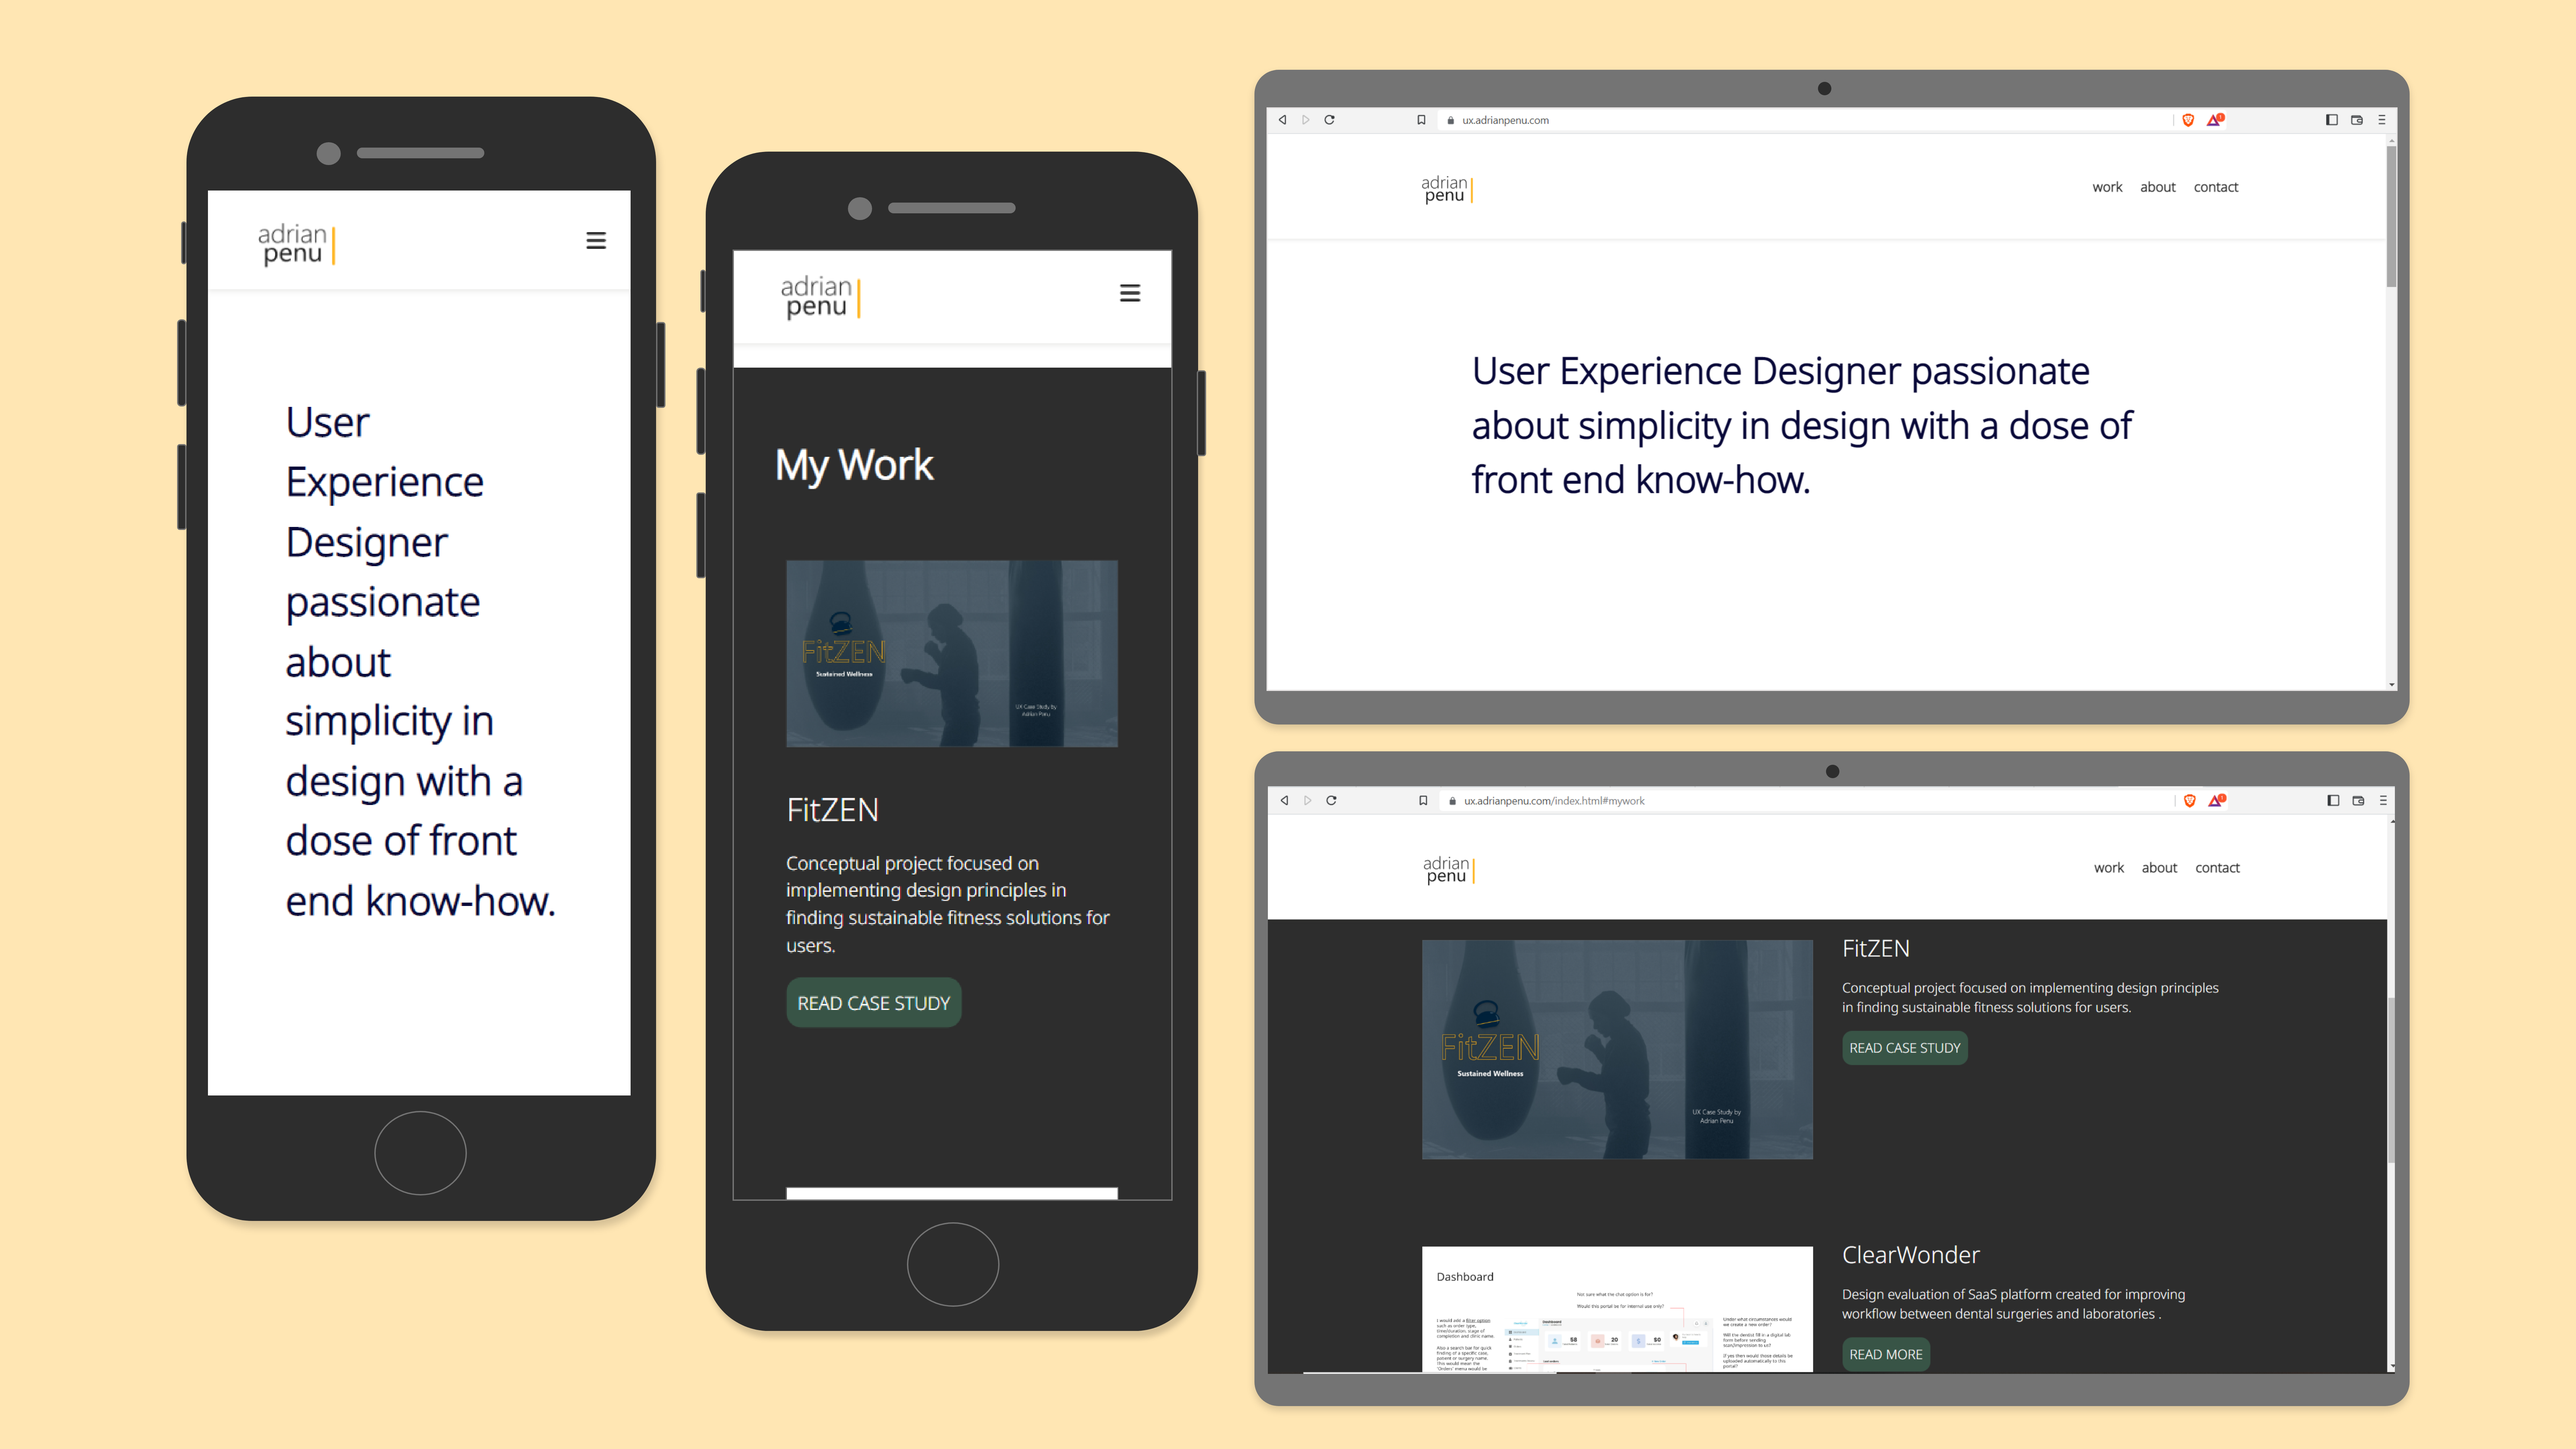
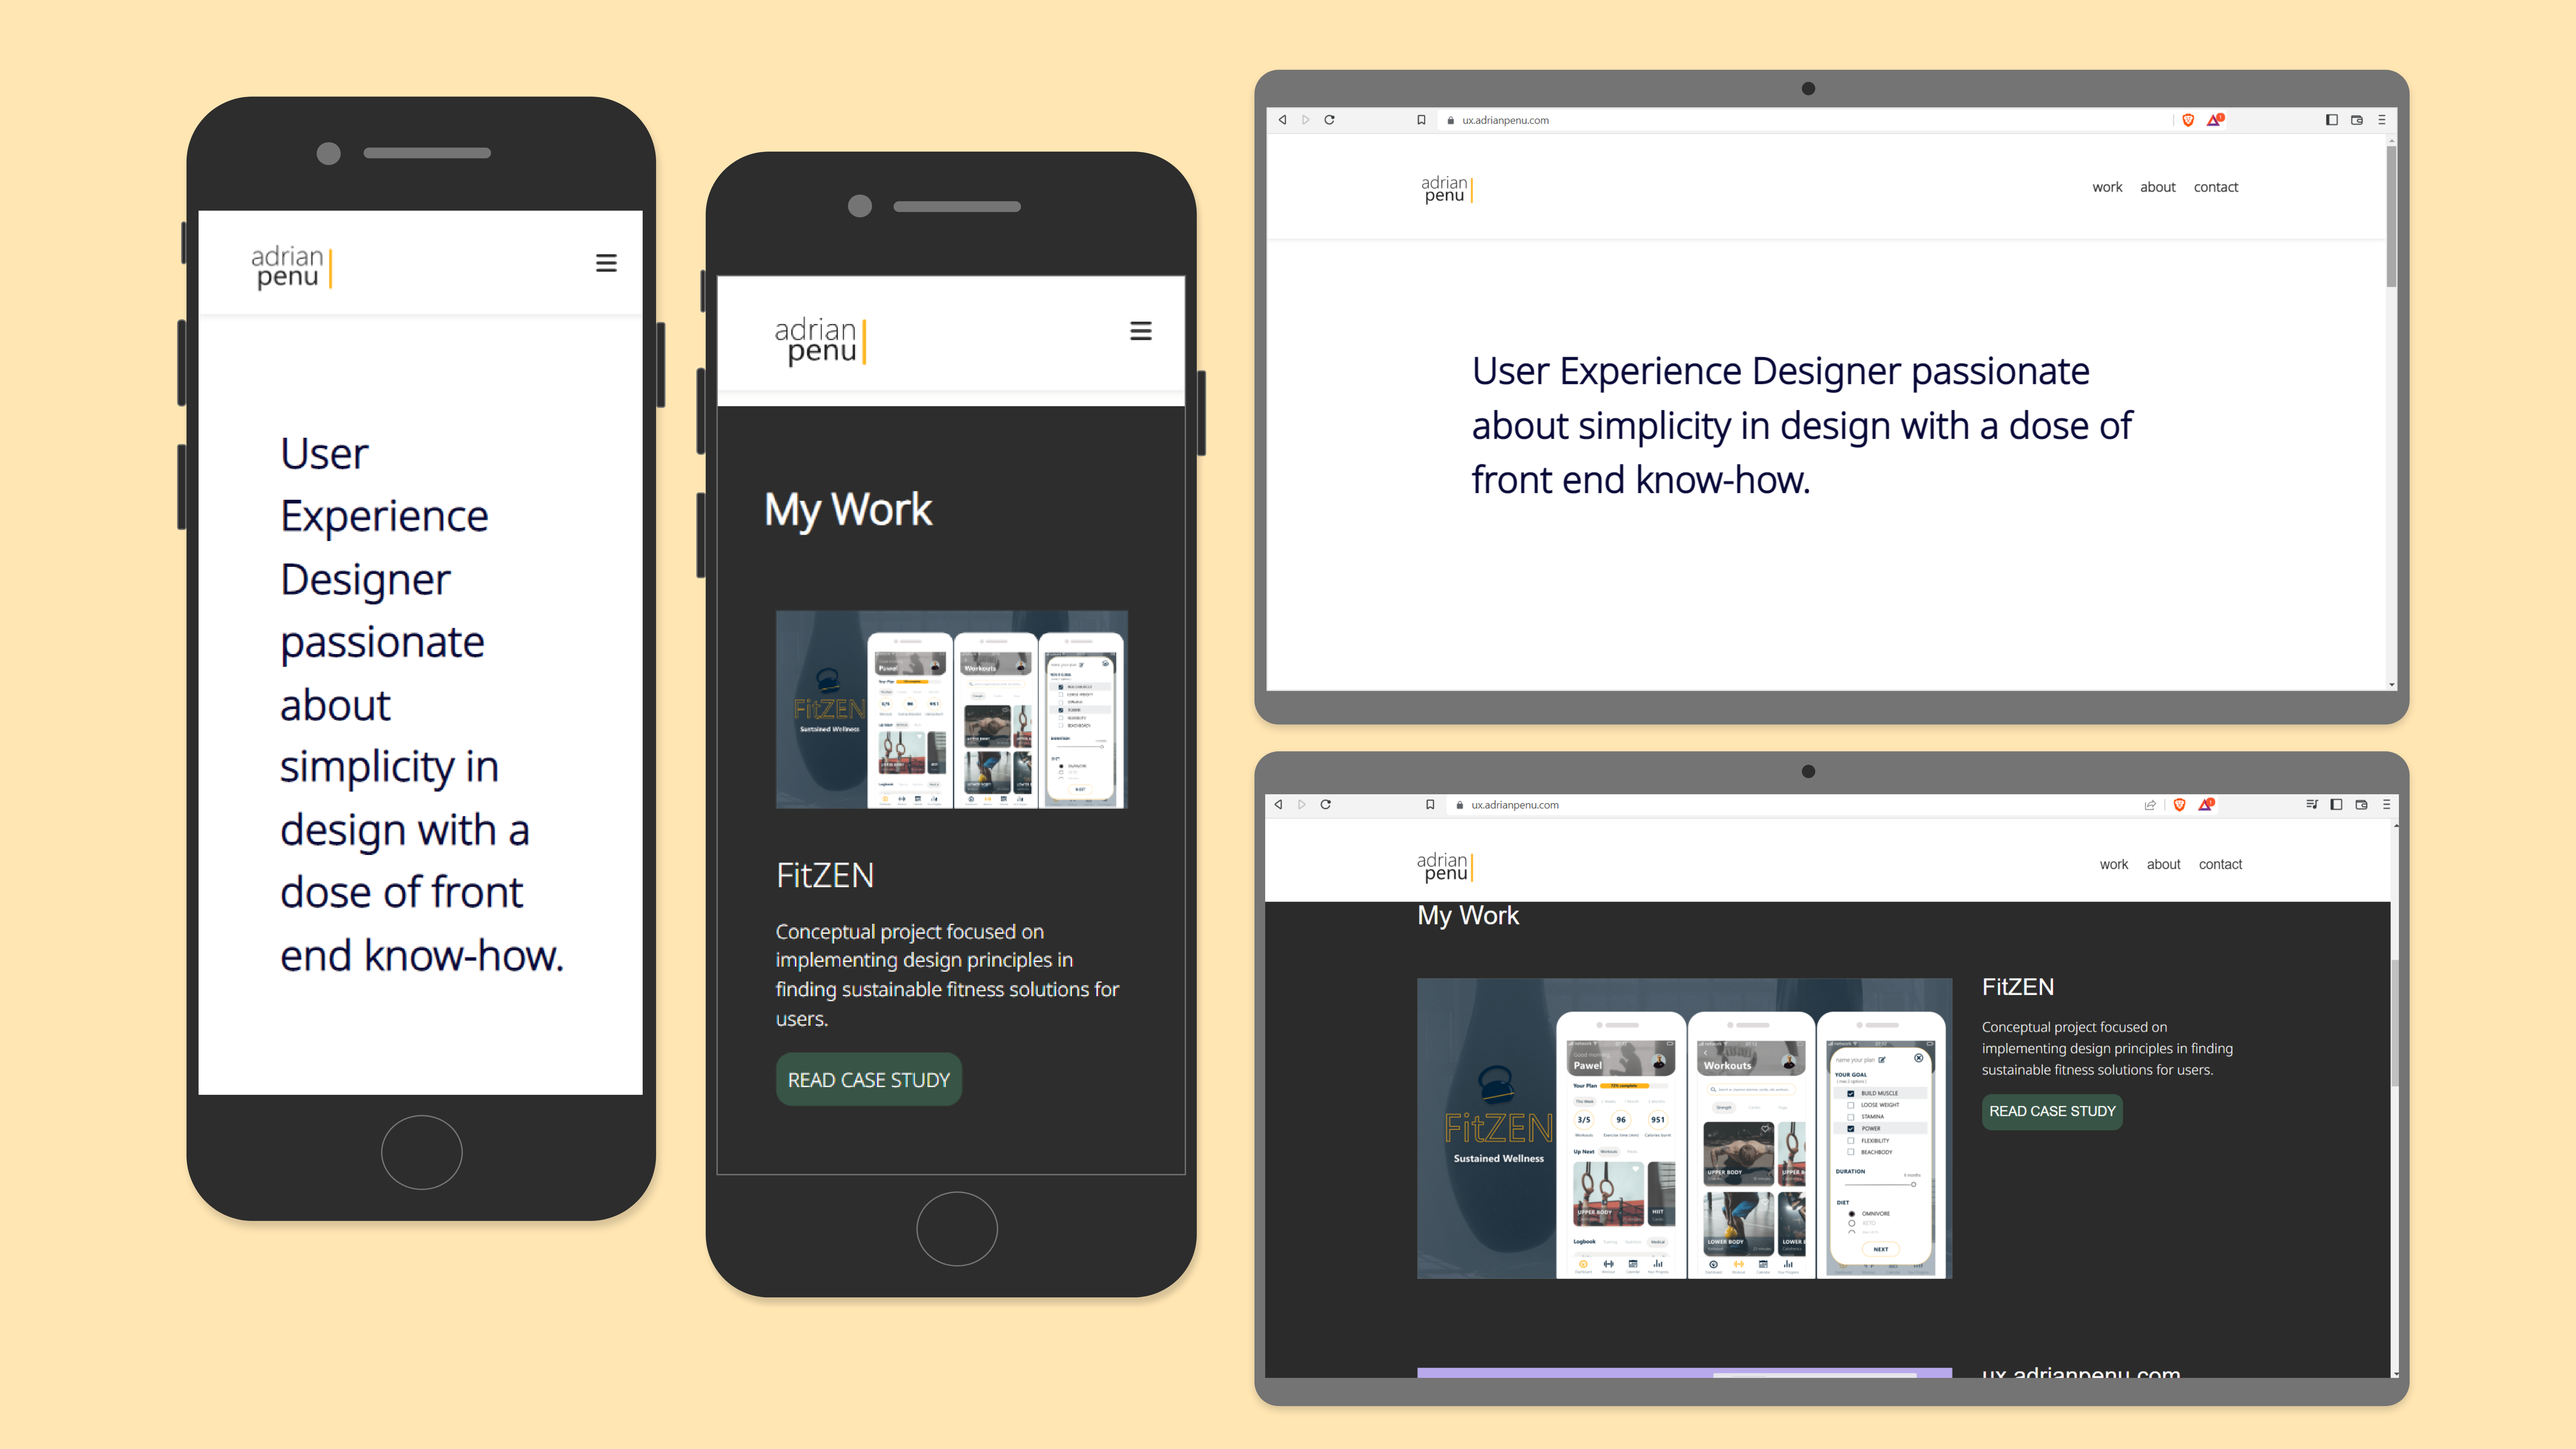
change general

diff --git a/css/style.css b/css/style.css
@@ -305,7 +305,7 @@ nav > ul > li > a {
 #hero p {
   font-size: 3em;
   font-weight: 500;
-  color: #2d2d2d;
+  color: #2b2b2b;
   margin: 0;
   display: inline-block;
 }
@@ -484,6 +484,14 @@ blockquote.pullquote::after {
 blockquote.pullquote::before,
 blockquote.pullquote::after {
   margin: 1.125rem auto;
+}
+
+#hero .flexbox-item:nth-child(2) {
+  display: none;
+}
+
+.more_about_me {
+  padding: 60px 60px 0 0;
 }
 
 @media only screen and (min-width: 641px) {
@@ -701,15 +709,18 @@ blockquote.pullquote::after {
 }
 
 @media only screen and (min-width: 1024px) {
-  #hero .container {
-    margin: 150px auto 90px;
-    padding: 0 120px 120px;
-  }
-
   .container {
     max-width: 1200px;
     margin-left: auto;
     margin-right: auto;
+  }
+
+  #hero {
+    padding: 150px 20px 100px 100px;
+  }
+
+  .grid-container-intro {
+    flex-grow: 1;
   }
 
   .flexbox-container {
@@ -802,6 +813,36 @@ blockquote.pullquote::after {
   }
 }
 
+@media only screen and (min-width: 1200px) {
+  .grid-container-intro {
+    grid-template-columns: 1fr 1fr;
+    display: grid;
+    grid-gap: 10px;
+    align-items: start;
+    background-color: #fff;
+    margin: 0;
+    padding: 50px 10px;
+  }
+
+  #hero .flexbox-item:nth-child(2) {
+    display: grid;
+  }
+
+  #hero p {
+    font-weight: 300;
+    font-size: 2.75em;
+    margin: 0;
+  }
+
+  #hero {
+    padding: 130px 160px 100px 165px;
+  }
+
+  #hero img {
+    margin-top: 15px;
+  }
+}
+
 @media only screen and (max-width: 640px) {
   .tools {
     margin-top: 30px;
@@ -826,7 +867,7 @@ blockquote.pullquote::after {
 
   #hero p {
     font-weight: 300;
-    font-size: 2.25em;
+    font-size: 2.1em;
     margin: 50px 40px;
   }
 
@@ -853,5 +894,9 @@ blockquote.pullquote::after {
 
   #contact p {
     padding: 0 30px;
+  }
+
+  .more_about_me {
+    padding: 0 0 0 40px;
   }
 }

diff --git a/fitzen.html b/fitzen.html
@@ -245,11 +245,11 @@
       <div class="grid-container">
         <div class="flexbox-item">
           <p>I’ve created personas with the purpose of making the research more relatable and building empathy with the user.
-            A persona doesn’t represent the ideal user but rather the average user whom the app is intended for.
+            They're not meant to represent the ideal user but rather the average user whom the app is intended for.
           </p><br />
           <p>The two personas created for this project highlight different target audiences and their pain points.
           </p><br />
-          <p>One is chosen due to wanting to take fitness to the next level whilst the second persona targets users who want to improve their quality of life but don’t know where to start.
+          <p>Pawel wants to take fitness to the next level whilst Fatima is looking to improve the quality of life but doesn’t know where to start.
           </p>
         </div>
         <div class="flexbox-item">
@@ -275,7 +275,7 @@
         <h3>IDEATION</h3>
         <h2>Finding patterns</h2>
         <div class="flexbox-item">
-          <p>I’ve created user flows with basic tasks such starting a workout. This helped me make sure the navigation remains simple and intuitive.</p>
+          <p>I’ve created Fatima's user flows as a basic task such as starting a workout. This helped me make sure the navigation remains simple and intuitive.</p>
         </div>
         <div class="flexbox-item">
           <picture>
@@ -576,8 +576,7 @@
         </div>
         <br />
       </div>
-
-
+    </div>
   </main>
 
 

diff --git a/index.html b/index.html
@@ -33,11 +33,16 @@
      <a name="intro"></a>
     <main>
     <div id="hero">
-      <div class="container">
+      <div class="grid-container-intro">
+        <div class="flexbox-item">
       <p>User Experience Designer passionate about simplicity in design with a dose of front end know-how.</p>
+      <div class="more_about_me"> <a href="about.html">More about me</a></div>
     </div>
+    <div class="flexbox-item">
+      <img src="img\background.jpg">
   </div>
-
+</div>
+</div>
 
 <div id="work">
 <a name="mywork"></a>
